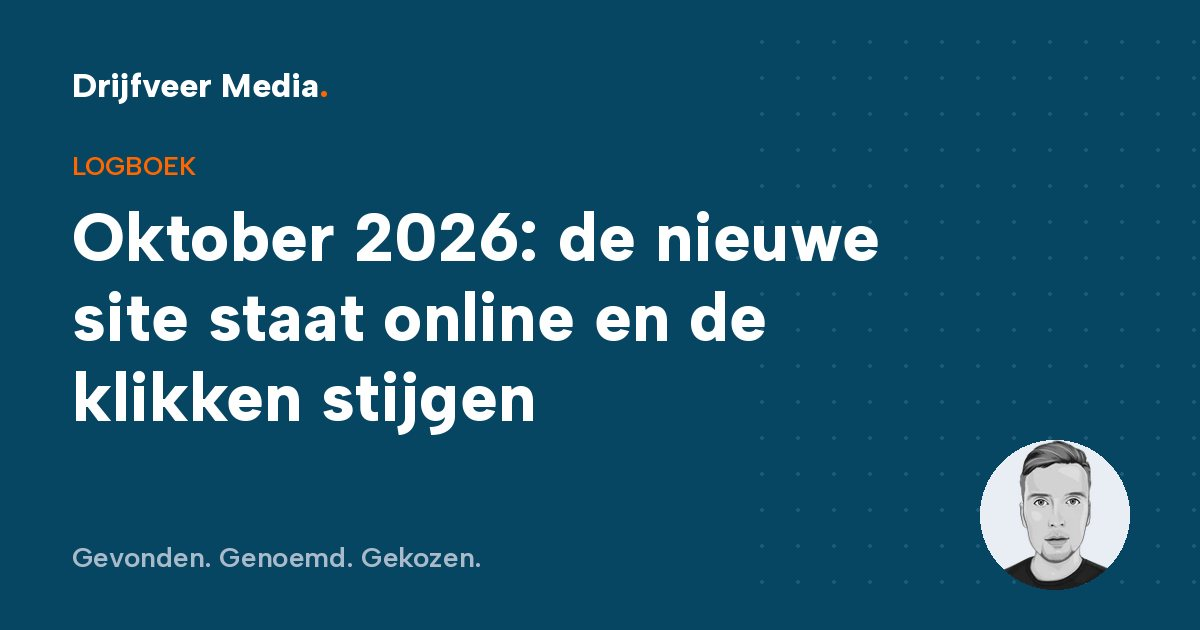
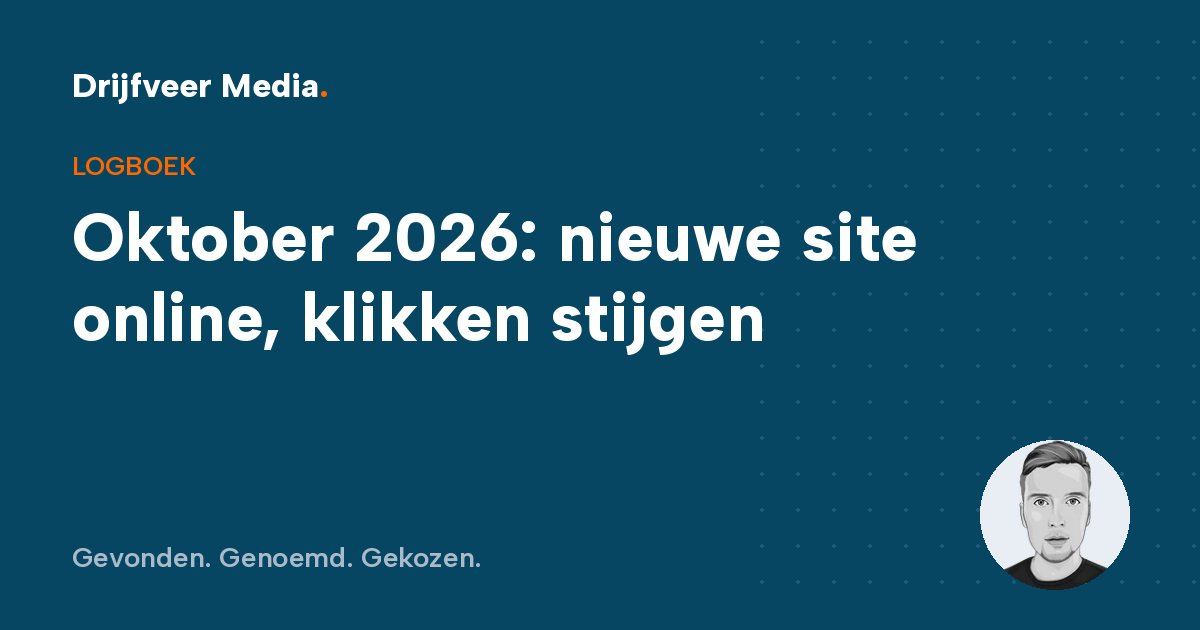
Logboek oktober: zoekwoorden uit SE Ranking opnieuw gemeten (2.832 top 100, 607 top 10)
Claude-Session: https://claude.ai/code/session_01JdKogjn6WKLJnDFpeShLUb

Changed region(s): [[0.0617, 0.4524, 0.6475, 0.573], [0.0617, 0.573, 0.4625, 0.6937], [0.4625, 0.3317, 0.7708, 0.4222]]

diff --git a/src/content/logboek/oktober-2026.md b/src/content/logboek/oktober-2026.md
@@ -4,7 +4,7 @@ beschrijving: "Tot en met 26 oktober 202 klikken uit Google, tegen 54 in heel se
 maand: "2026-10"
 datum: 2026-10-27
 verkeer: 202
-zoekwoorden: 2830
+zoekwoorden: 2832
 top10: 607
 ---
 
@@ -18,7 +18,7 @@ Het verschil zit vooral in de laatste week. Tot en met 19 oktober kwamen er 39 k
 
 Rond die dagen ging de nieuwe site online. Ook het aantal keer dat we in Google in beeld kwamen, schoot omhoog. Half oktober was dat zo'n 3.000 keer per dag. Vanaf 21 oktober lag het elke dag rond de 16.000. Google heeft de nieuwe pagina's dus snel opgepikt.
 
-Voor de zoekwoorden staan hier nog de getallen van de nulmeting: 2.830 in de top 100 en 607 in de top 10. Die meten we opnieuw voor de volledige cijfers van oktober.
+In SE Ranking is nog weinig veranderd. De site staat op 2.832 zoekwoorden in de top 100, waarvan 607 in de top 10. Dat is bijna gelijk aan de nulmeting. SE Ranking schat posities op basis van zijn eigen metingen, en die lopen vaak achter op wat Google echt laat zien. Search Console laat de verandering nu al zien. In SE Ranking verwachten we die later pas terug te zien.
 
 ## Waar de klikken vandaan komen
 
@@ -48,4 +48,4 @@ Aanvragen tellen we zelf. Dat getal zetten we hier neer zodra oktober voorbij is
 
 ## Volgende keer
 
-Begin november zetten we hier de volledige cijfers van oktober neer, met nieuwe metingen uit SE Ranking. Benieuwd hoe jouw site ervoor staat? Laat hem dan [gratis nakijken](/gratis-website-analyse/).
+Begin november zetten we hier de volledige cijfers van oktober neer, met een nieuwe meting uit SE Ranking. Benieuwd hoe jouw site ervoor staat? Laat hem dan [gratis nakijken](/gratis-website-analyse/).
